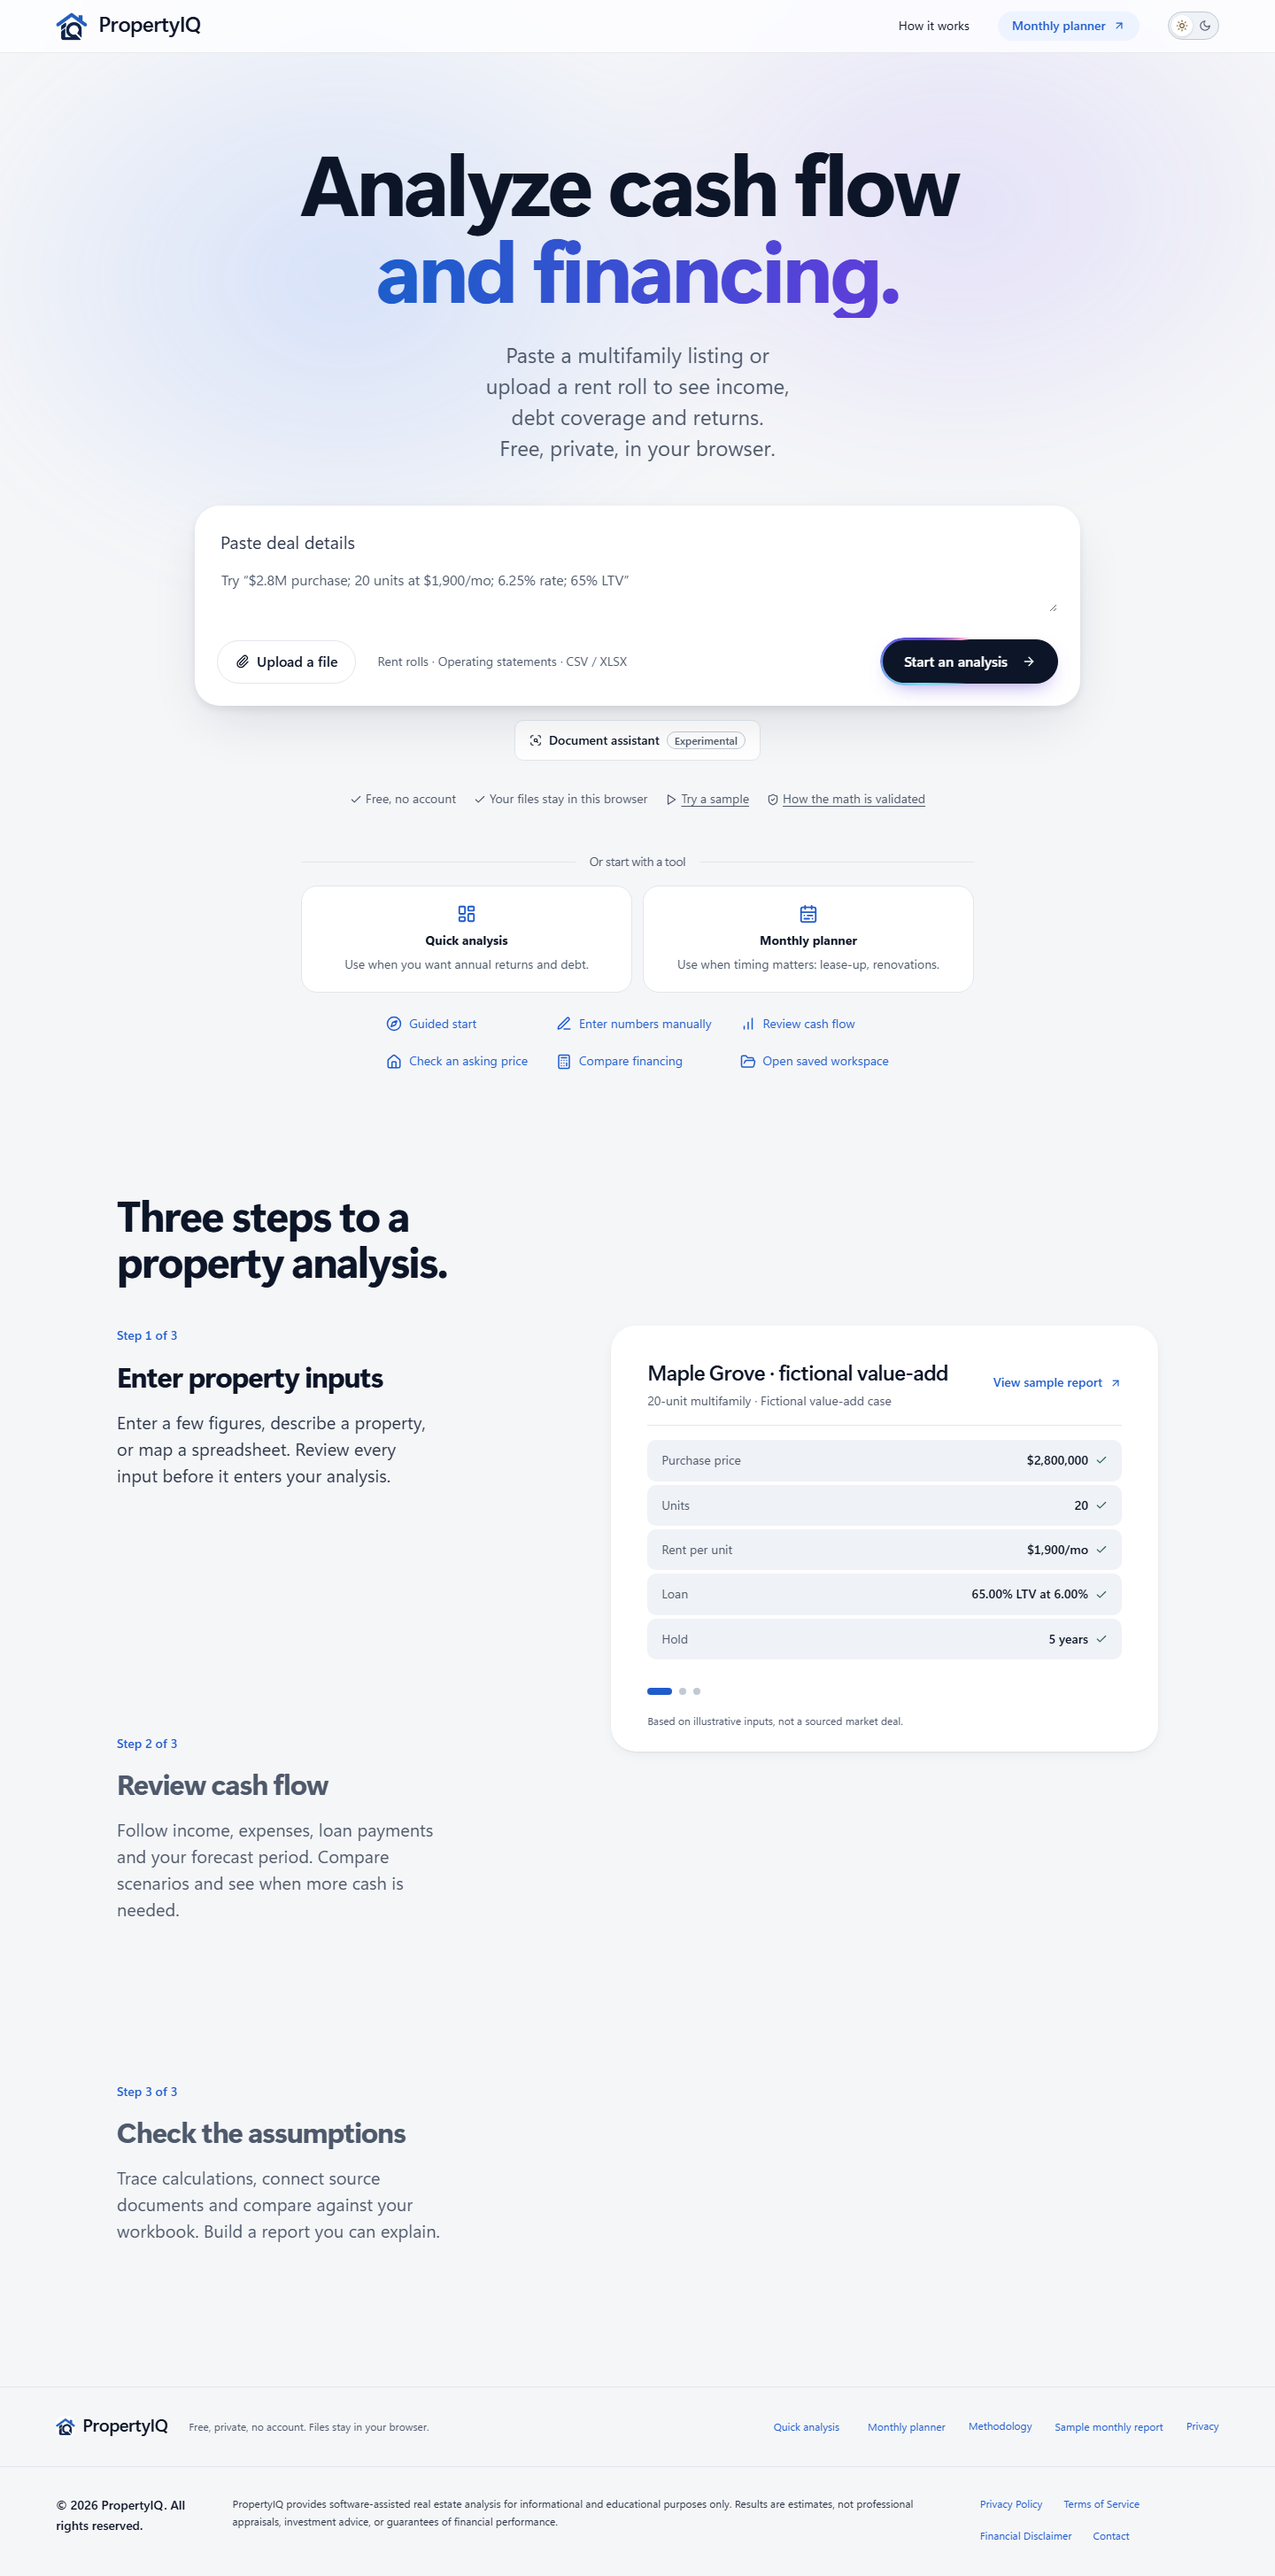
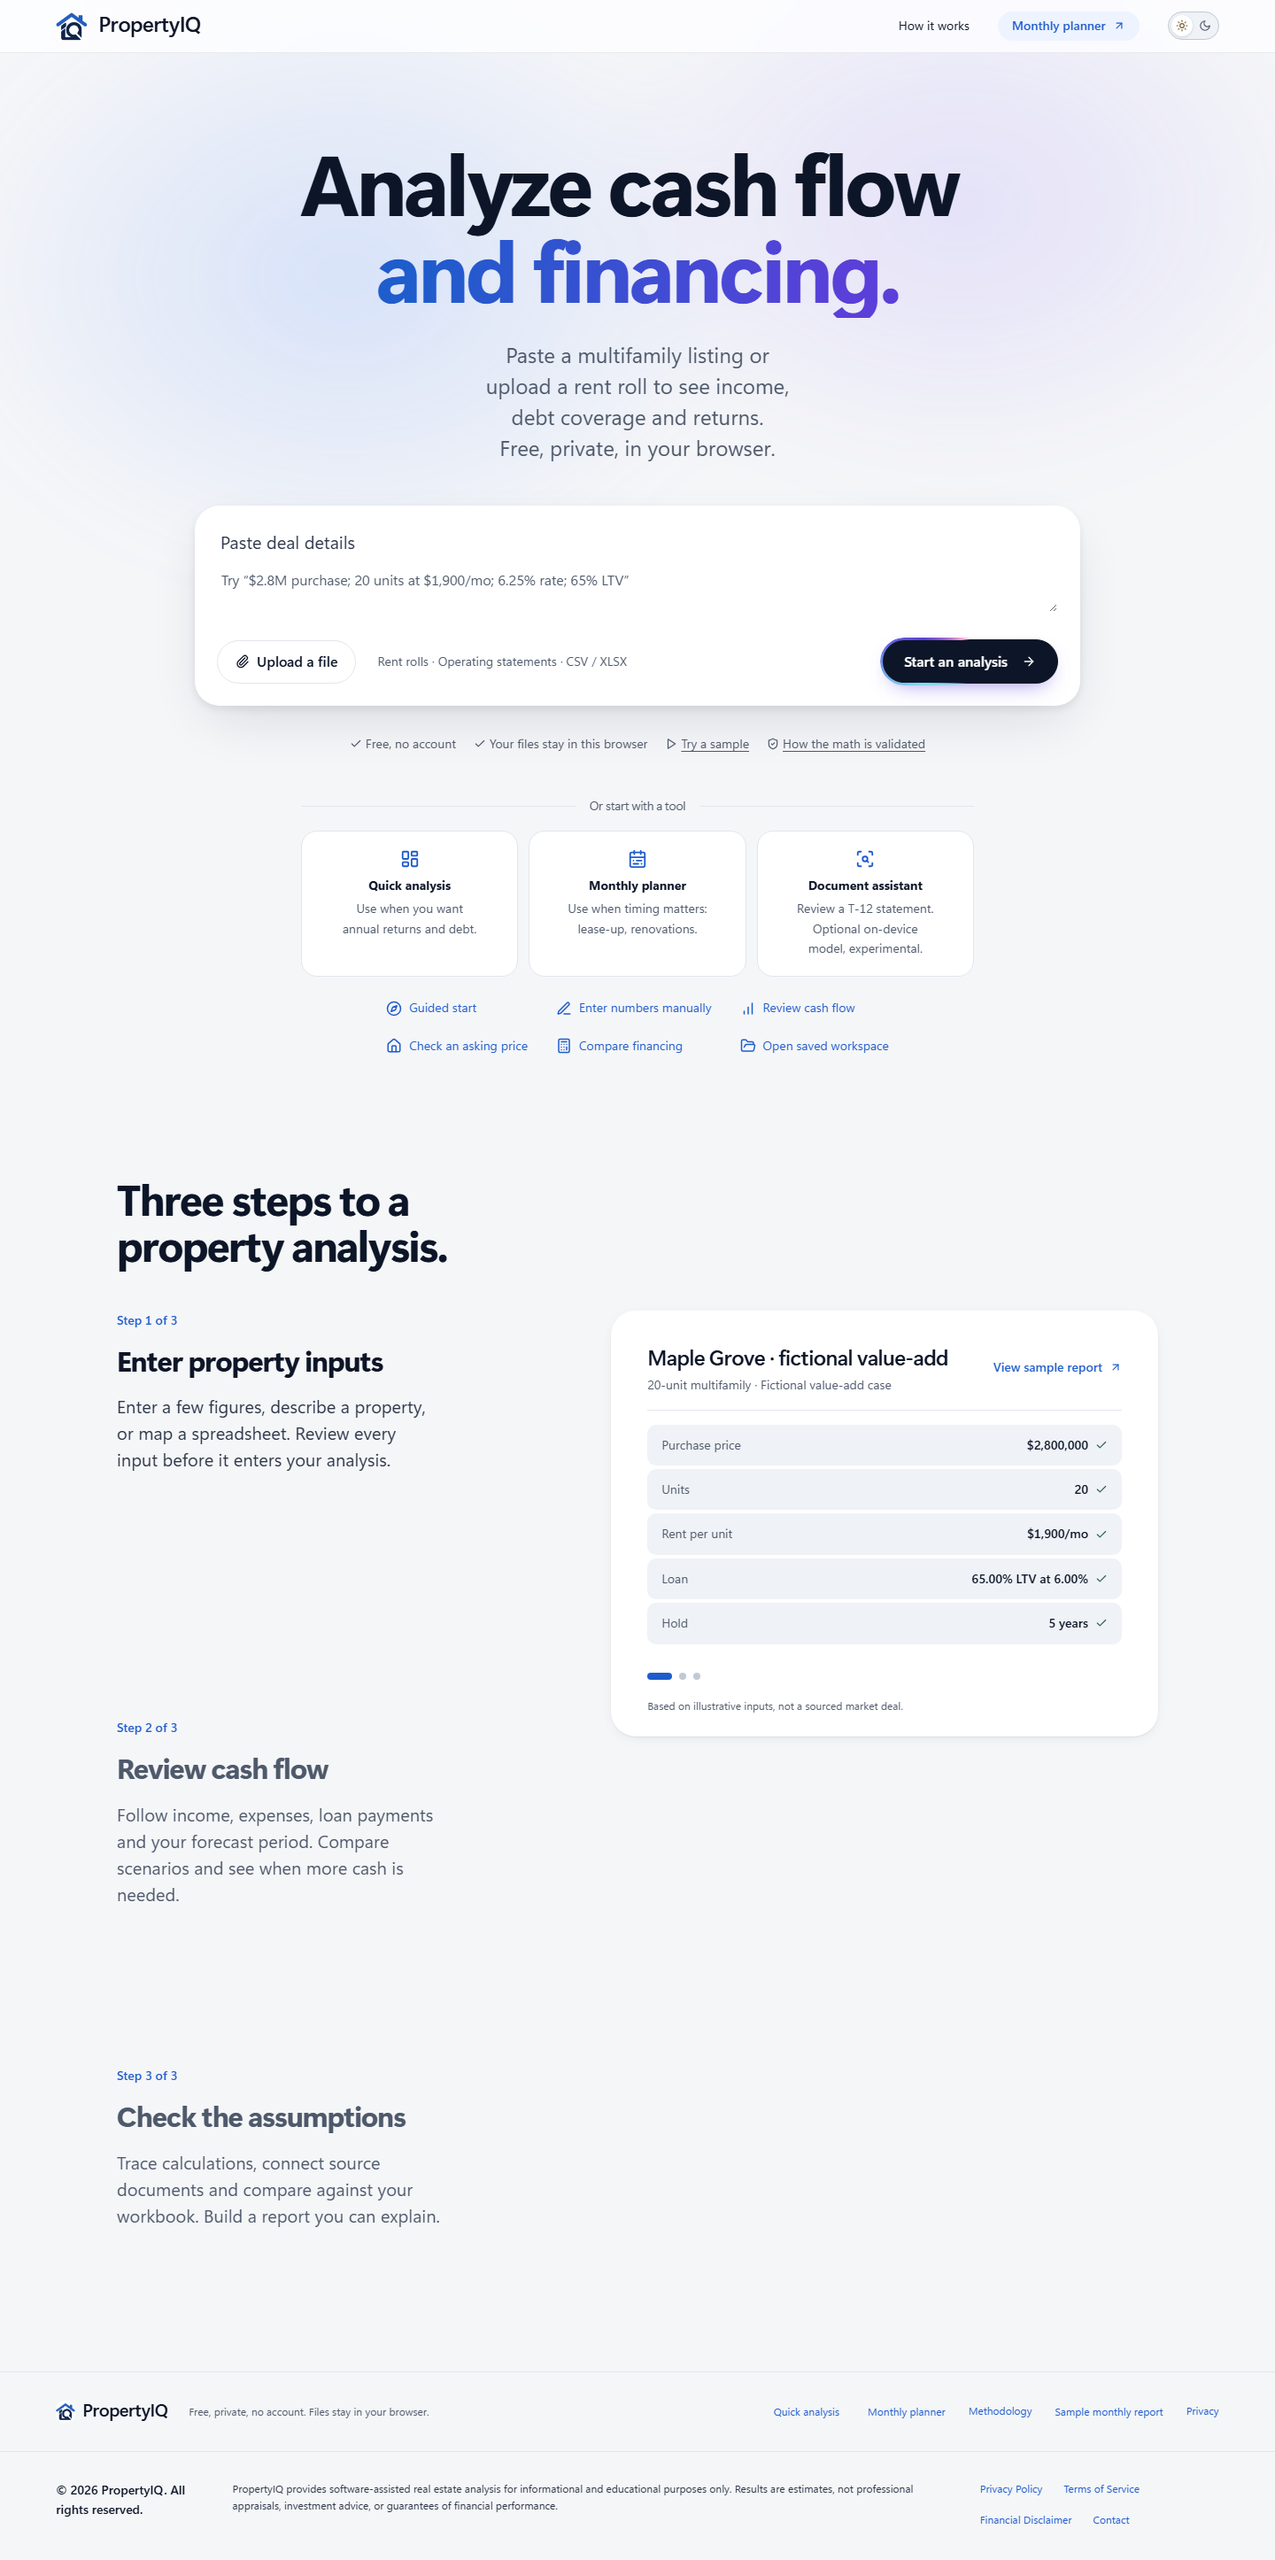
Homepage: Document assistant as a third tool card
Moves the experimental entry from under the search bar into "Or start with a
tool" as a third card matching Quick analysis and Monthly planner; one
centered row of three on desktop, stacked on phones (flagged builds only).

diff --git a/e2e-browser-ai/workflow.spec.ts b/e2e-browser-ai/workflow.spec.ts
@@ -177,16 +177,20 @@ test("Research Lab asks before any download and states model identity", async ({
   ).toEqual([]);
 });
 
-test("homepage entry under the search bar opens the workspace and returns", async ({
-  page,
-}) => {
+test("homepage tool card opens the workspace and returns", async ({ page }) => {
   await page.goto(APP + "/");
-  const entry = page.getByRole("link", { name: /Document assistant/ });
+  const entry = page.getByRole("button", { name: /Document assistant/ });
   await expect(entry).toBeVisible();
-  // It sits under the search bar (the deal composer), not floating over the page.
-  const composer = await page.locator(".iq-composer").boundingBox();
-  const box = await entry.boundingBox();
-  expect(box!.y).toBeGreaterThan(composer!.y + composer!.height);
+  // Third card in "Or start with a tool"; one row of three on desktop, stacked on phones.
+  const cards = page.locator(".iq-other-modes > button");
+  await expect(cards).toHaveCount(3);
+  await expect(cards.nth(2)).toHaveText(/Document assistant/);
+  const tops = await cards.evaluateAll((els) =>
+    els.map((e) => Math.round(e.getBoundingClientRect().top)),
+  );
+  if (test.info().project.name === "desktop")
+    expect(new Set(tops).size).toBe(1);
+  else expect(new Set(tops).size).toBe(3);
   expect(await entry.evaluate((e) => getComputedStyle(e).position)).not.toBe(
     "fixed",
   );
@@ -230,7 +234,7 @@ test("without WebGPU the research model is not offered to load", async ({
 test("no model file is requested before explicit consent", async ({ page }) => {
   const requests = await open(page); // opens #documents
   await page.goto(APP + "/");
-  await page.getByRole("link", { name: /Document assistant/ }).click();
+  await page.getByRole("button", { name: /Document assistant/ }).click();
   await page.goto(APP + "/#research-lab");
   await page.getByRole("radio", { name: /Generic Qwen3-0.6B/ }).check();
   await page

diff --git a/src/ui/StartPage.tsx b/src/ui/StartPage.tsx
@@ -651,21 +651,6 @@ export default function StartPage({
                   </p>
                 )}
               </form>
-              {documentAssistant && (
-                <a
-                  className="button iq-assist"
-                  href="#documents"
-                  onClick={(e) => {
-                    // The app turns hash links into pushState, which fires no hashchange.
-                    e.preventDefault();
-                    navigate("#documents");
-                  }}
-                >
-                  <ScanSearch size={18} aria-hidden="true" />
-                  Document assistant
-                  <span className="iq-assist-tag">Experimental</span>
-                </a>
-              )}
               <div className="brief-preview" aria-live="polite">
                 {Object.entries(live).map(([key, n]) => (
                   <span key={key}>
@@ -707,6 +692,18 @@ export default function StartPage({
                     <strong>Monthly planner</strong>
                     <span>Use when timing matters: lease-up, renovations.</span>
                   </button>
+                  {documentAssistant && (
+                    <button
+                      data-document-assistant
+                      onClick={() => navigate("#documents")}
+                    >
+                      <ScanSearch size={22} aria-hidden="true" />
+                      <strong>Document assistant</strong>
+                      <span>
+                        Experimental T-12 review that runs on your device.
+                      </span>
+                    </button>
+                  )}
                 </div>
                 <div className="iq-other-more">
                   <button onClick={() => showGuide({ step: 1 })}>

diff --git a/e2e-browser-ai/public.spec.ts b/e2e-browser-ai/public.spec.ts
@@ -8,9 +8,11 @@ import { join } from "node:path";
 // Run: playwright test -c playwright.browser-ai.config.ts --project=public
 const APP = process.env.PIQ_APP_URL ?? "http://127.0.0.1:4198";
 const HF = /^https:\/\/(huggingface\.co|[^/]+\.hf\.co)\//;
-const RESULTS = process.env.PIQ_APP_URL
-  ? "docs/step18-2/preview-results.json"
-  : "docs/step18-2/public-release-results.json";
+const RESULTS = process.env.PIQ_RESULTS
+  ? process.env.PIQ_RESULTS
+  : process.env.PIQ_APP_URL
+    ? "docs/step18-2/preview-results.json"
+    : "docs/step18-2/public-release-results.json";
 const results: Record<string, unknown> = existsSync(RESULTS)
   ? JSON.parse(readFileSync(RESULTS, "utf8"))
   : {};
@@ -67,7 +69,7 @@ test.describe.configure({ mode: "serial", timeout: 90 * 60_000 });
 test("first visit: consent, download from Hugging Face, classify, calculate", async () => {
   const { context, page, requests, errors } = await launch(true);
   await page.goto(APP + "/");
-  await page.getByRole("link", { name: /Document assistant/ }).click();
+  await page.getByRole("button", { name: /Document assistant/ }).click();
   await page.locator("#research-lab").scrollIntoViewIfNeeded();
   await page
     .getByRole("radio", { name: /PropertyIQ research Qwen3-1.7B/ })

diff --git a/src/ai/browser/workspace.css b/src/ai/browser/workspace.css
@@ -687,21 +687,6 @@
   justify-items: start;
 }
 
-/* Homepage entry, directly under the search bar (flagged builds). */
-.iq-assist {
-  display: inline-flex;
-  align-items: center;
-  gap: var(--space-8);
-  margin: var(--space-16) auto 0;
-}
-.iq-assist-tag {
-  padding: var(--space-2) var(--space-8);
-  border: var(--stroke-thin) solid var(--color-border-strong);
-  border-radius: var(--radius-round);
-  color: var(--color-muted);
-  font-size: var(--text-12);
-  font-weight: var(--weight-semibold);
-}
 /* The dev-only 4B assistant panel, placed in the page instead of floating. */
 .dr-assistant .local-ai {
   position: static;

diff --git a/src/styles.css b/src/styles.css
@@ -6271,6 +6271,15 @@ button.theme-toggle[role="switch"]:hover {
   grid-template-columns: repeat(auto-fit, minmax(260px, 1fr));
   gap: var(--space-12);
 }
+/* Three tools (the flagged Document assistant card): one centered row of equal cards. */
+.iq-other-modes:has(> :nth-child(3)) {
+  grid-template-columns: repeat(3, minmax(0, 1fr));
+}
+@media (max-width: 720px) {
+  .iq-other-modes:has(> :nth-child(3)) {
+    grid-template-columns: 1fr;
+  }
+}
 .iq-other-modes button {
   display: flex;
   flex-direction: column;

diff --git a/src/ai/browser/Experiment.tsx b/src/ai/browser/Experiment.tsx
@@ -35,7 +35,9 @@ export default function Experiment() {
           navigate("#home");
           // Return keyboard focus to the button that opened the page.
           requestAnimationFrame(() =>
-            document.querySelector<HTMLElement>(".iq-assist")?.focus(),
+            document
+              .querySelector<HTMLElement>("[data-document-assistant]")
+              ?.focus(),
           );
         }}
       />
